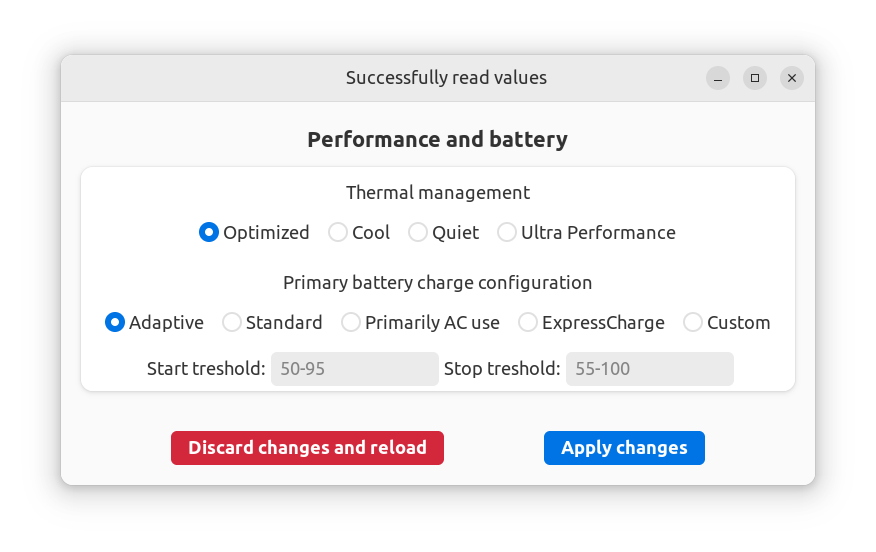
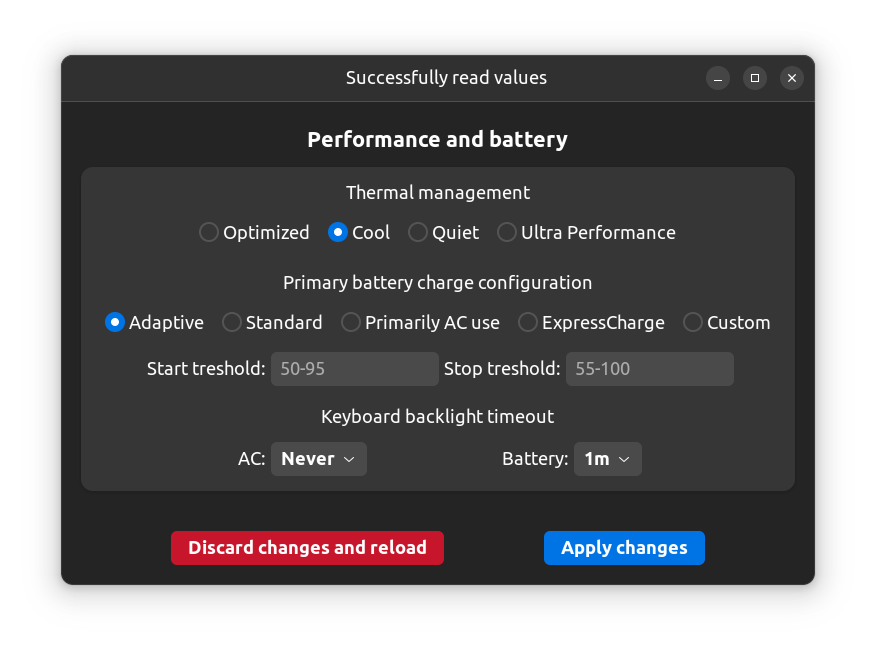
Updated image and readme

diff --git a/README.md b/README.md
@@ -1,5 +1,7 @@
 # Unofficial Dell Command GUI
-Simple, unofficial frontend to control some of the functions from Dell Command Configure. Can be used to change thermal management options, battery charge behaviour as well as battery charge tresholds.
+Simple, unofficial frontend to control some of the functions from Dell Command Configure. Can be used to change thermal management options, battery charge behaviour and keyboard backlight.
+
+Pull requests are welcome
 
 [<img src="https://raw.githubusercontent.com/DimseBoms/Unofficial-Dell-Command-Configure-GUI/main/Screenshot.png">](https://raw.githubusercontent.com/DimseBoms/Unofficial-Dell-Command-Configure-GUI/main/Screenshot.png)
 
